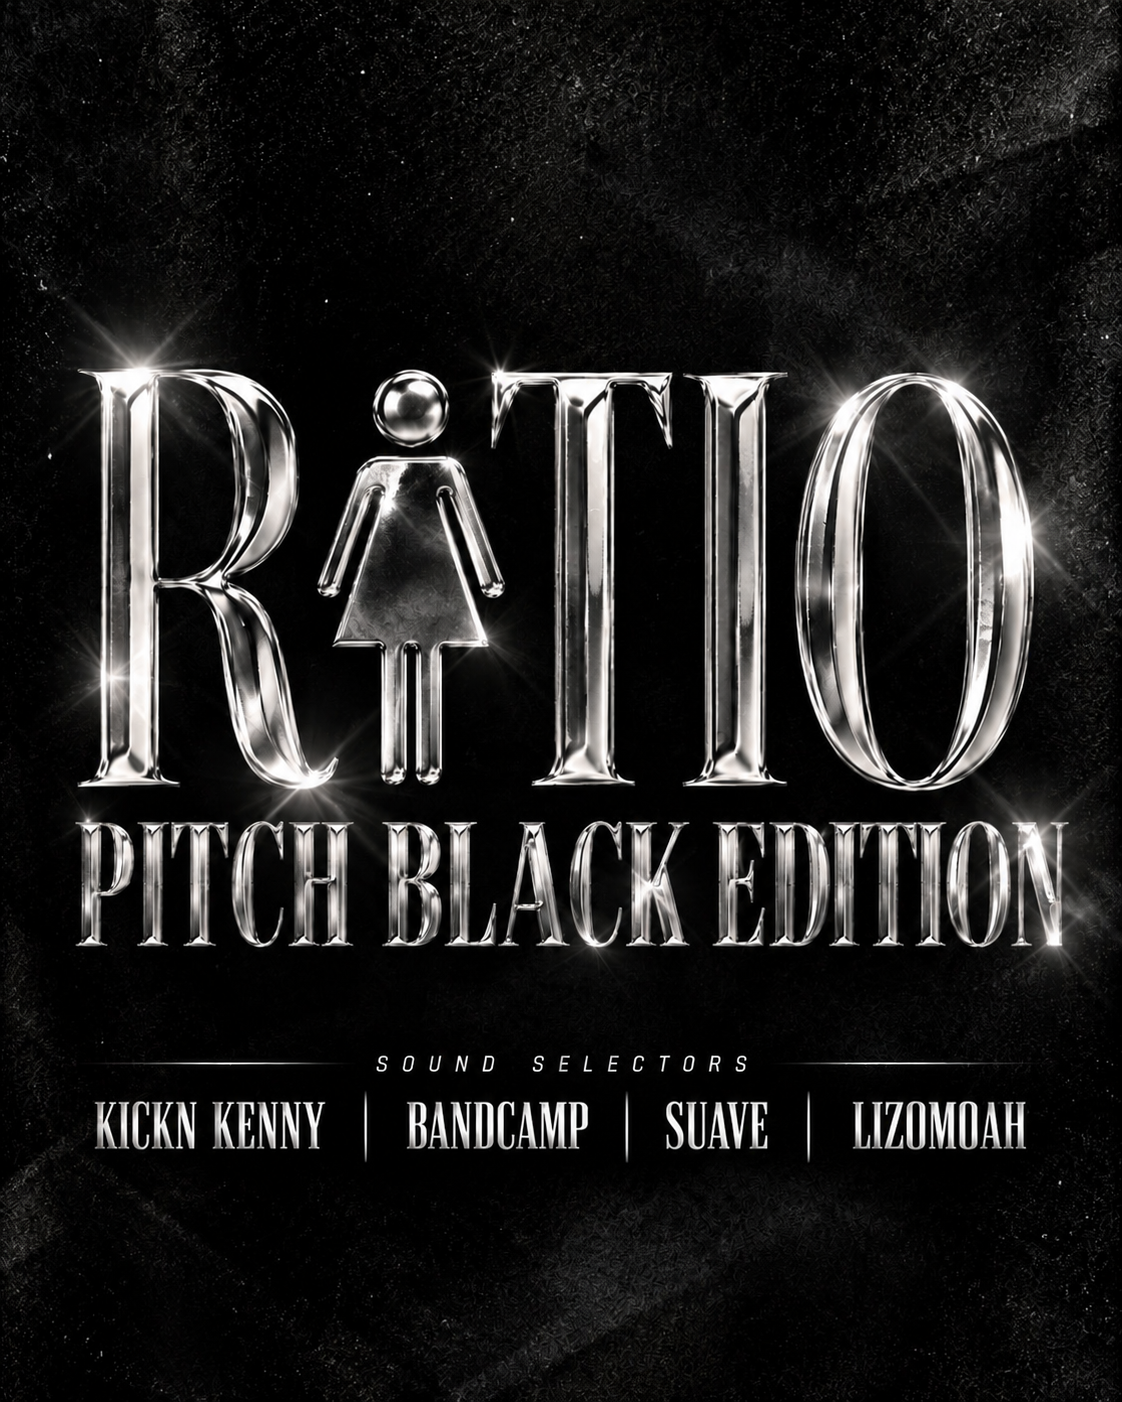
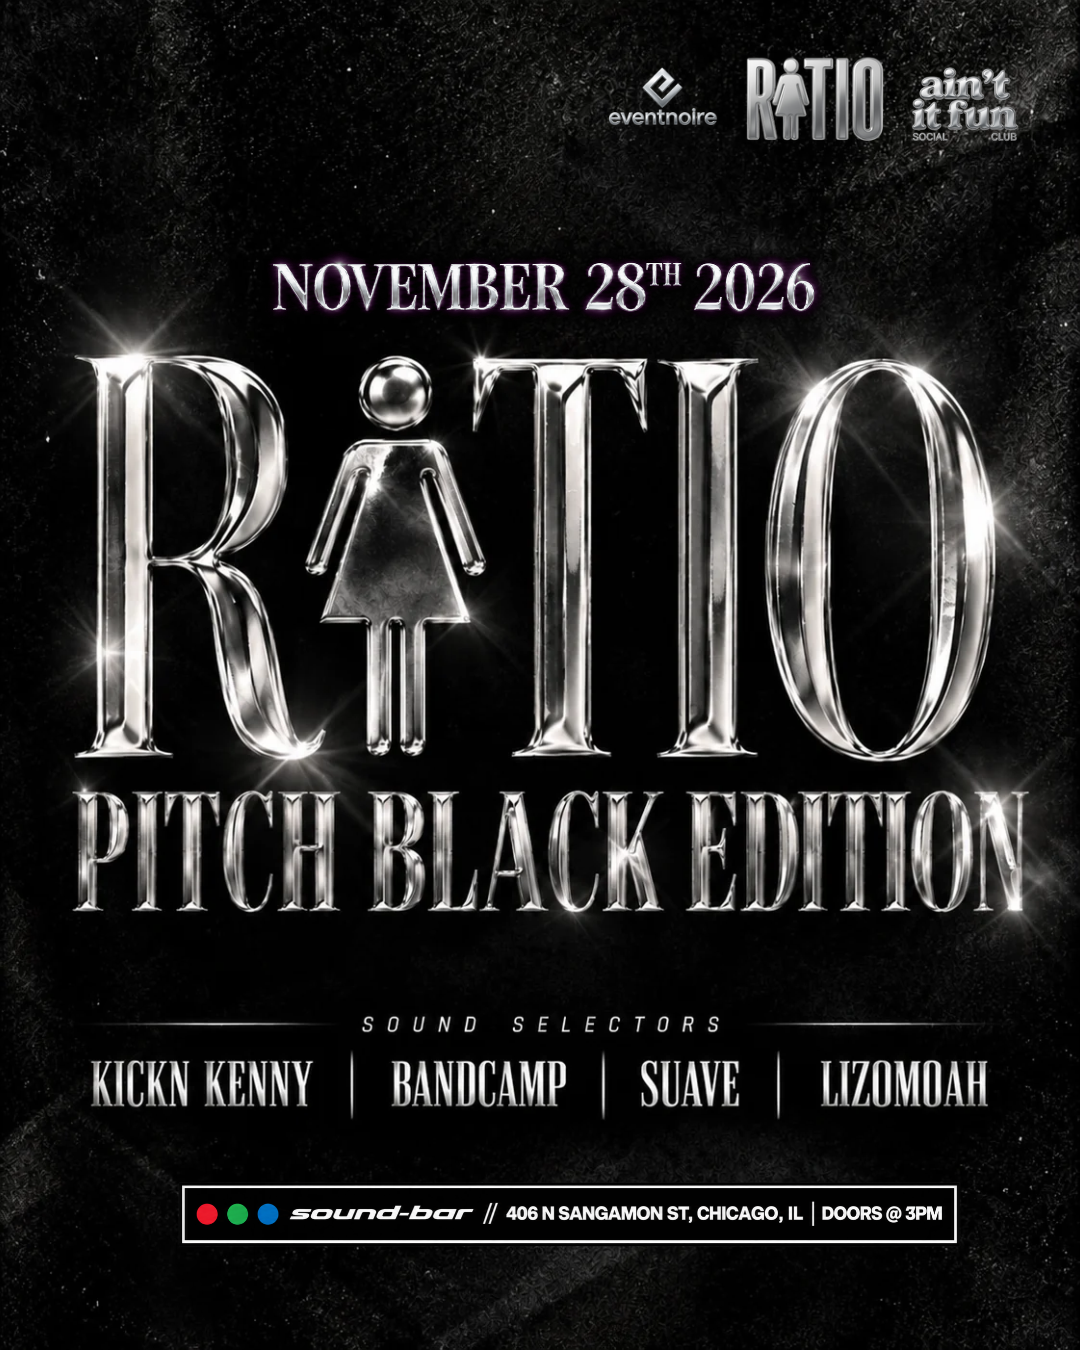
Update RATIO flyer and remove past events
Swap in the new RATIO: Pitch Black Edition flyer. Remove Thriller,
South Loop Halloween Bar Crawl, and Jam Session from the listing
(all have passed) along with their flyers and button styles.

Claude-Session: https://claude.ai/code/session_01UoAtKpu9tsmKxsytwmtYsK

Changed region(s): [[0.1528, 0.8711, 0.8861, 0.9333], [0.2444, 0.1867, 0.7639, 0.2489], [0.55, 0.0311, 0.9472, 0.1244]]

diff --git a/index.html b/index.html
@@ -51,21 +51,6 @@
 
 <main class="events">
 
-	<div class="event-block" data-event-date="2026-10-31">
-		<img src="images/flyer-thriller.png" alt="Thriller on October 31st starring Sea Rae, Kickn Kenny, Dynasty, and King Inesse at Avondale Music Hall, Chicago event flyer" loading="lazy">
-		<a class="button button--thriller" href="https://wl.eventim.us/event/thats-so-rubes-ice-hause-visonary-productions-scripture/702053?afflky=AvondaleMusicHall" target="_blank" rel="noopener">THRILLER</a>
-	</div>
-
-	<div class="event-block" data-event-date="2026-10-31">
-		<img src="images/flyer-south-loop-halloween-crawl.png" alt="5th Annual South Loop Halloween Bar Crawl on Saturday October 31st event flyer" loading="lazy">
-		<a class="button button--south-loop-crawl" href="https://events.eventnoire.com/e/southloop-halloween-crawl-2026" target="_blank" rel="noopener">SOUTH LOOP HALLOWEEN BAR CRAWL</a>
-	</div>
-
-	<div class="event-block" data-event-date="2026-11-01">
-		<img src="images/flyer-jam-session.jpg" alt="Jam Session: A Live Music Experience on November 1st at Bassment, Chicago event flyer" loading="lazy">
-		<a class="button button--jam-session" href="https://posh.vip/e/jam-session-6" target="_blank" rel="noopener">JAM SESSION</a>
-	</div>
-
 	<div class="event-block" data-event-date="2026-11-28">
 		<img src="images/flyer-ratio-pitch-black.png" alt="RATIO: Pitch Black Edition with sound selectors Kickn Kenny, Bandcamp, Suave, and Lizomoah event flyer" loading="lazy">
 		<a class="button button--ratio-pitch-black" href="https://events.eventnoire.com/e/ratio-pitch-black-chicago-2" target="_blank" rel="noopener">RATIO: PITCH BLACK EDITION</a>

diff --git a/css/style.css b/css/style.css
@@ -376,36 +376,6 @@ a:hover {
 	color: #ffffff;
 }
 
-.button--thriller {
-	background-color: #8b1a1a;
-	color: #ffffff;
-}
-
-.button--thriller:hover {
-	background-color: #5e1010;
-	color: #ffffff;
-}
-
-.button--south-loop-crawl {
-	background-color: #d9731a;
-	color: #1a1a1a;
-}
-
-.button--south-loop-crawl:hover {
-	background-color: #a85712;
-	color: #1a1a1a;
-}
-
-.button--jam-session {
-	background-color: #e8d9b5;
-	color: #3a2a18;
-}
-
-.button--jam-session:hover {
-	background-color: #c9b88e;
-	color: #3a2a18;
-}
-
 .button--ratio-pitch-black {
 	background-color: #c0c0c0;
 	color: #0d0d0d;
